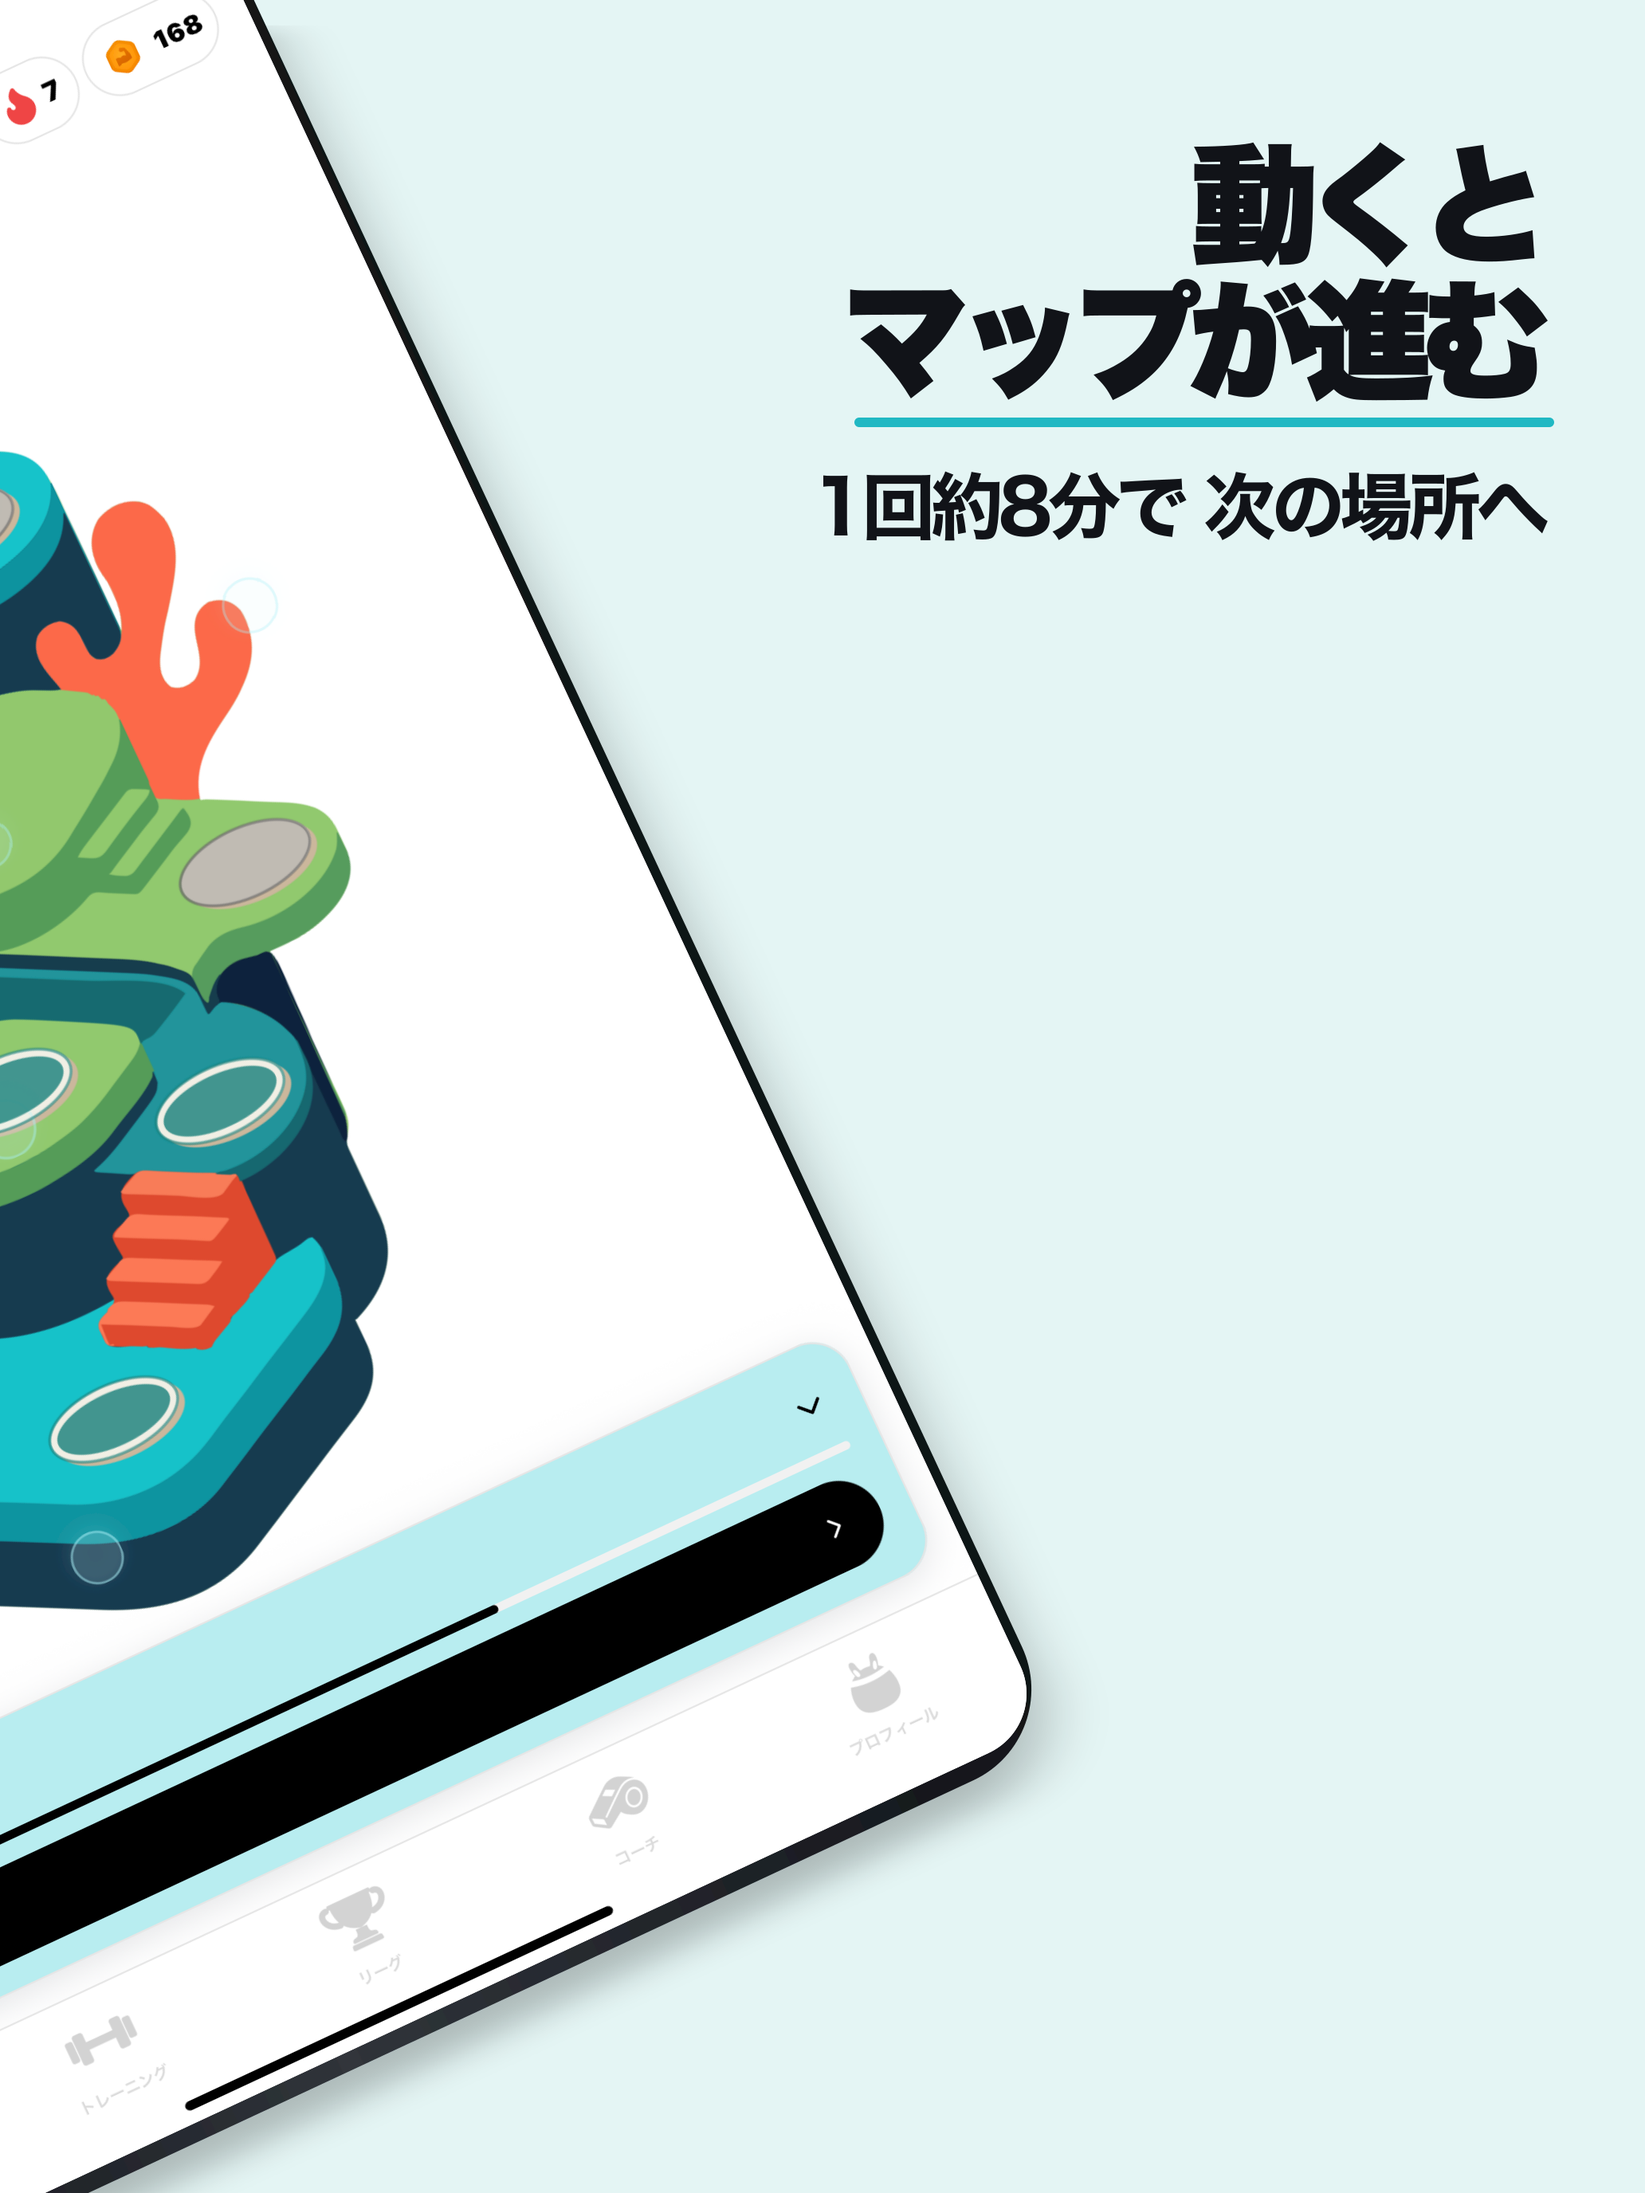
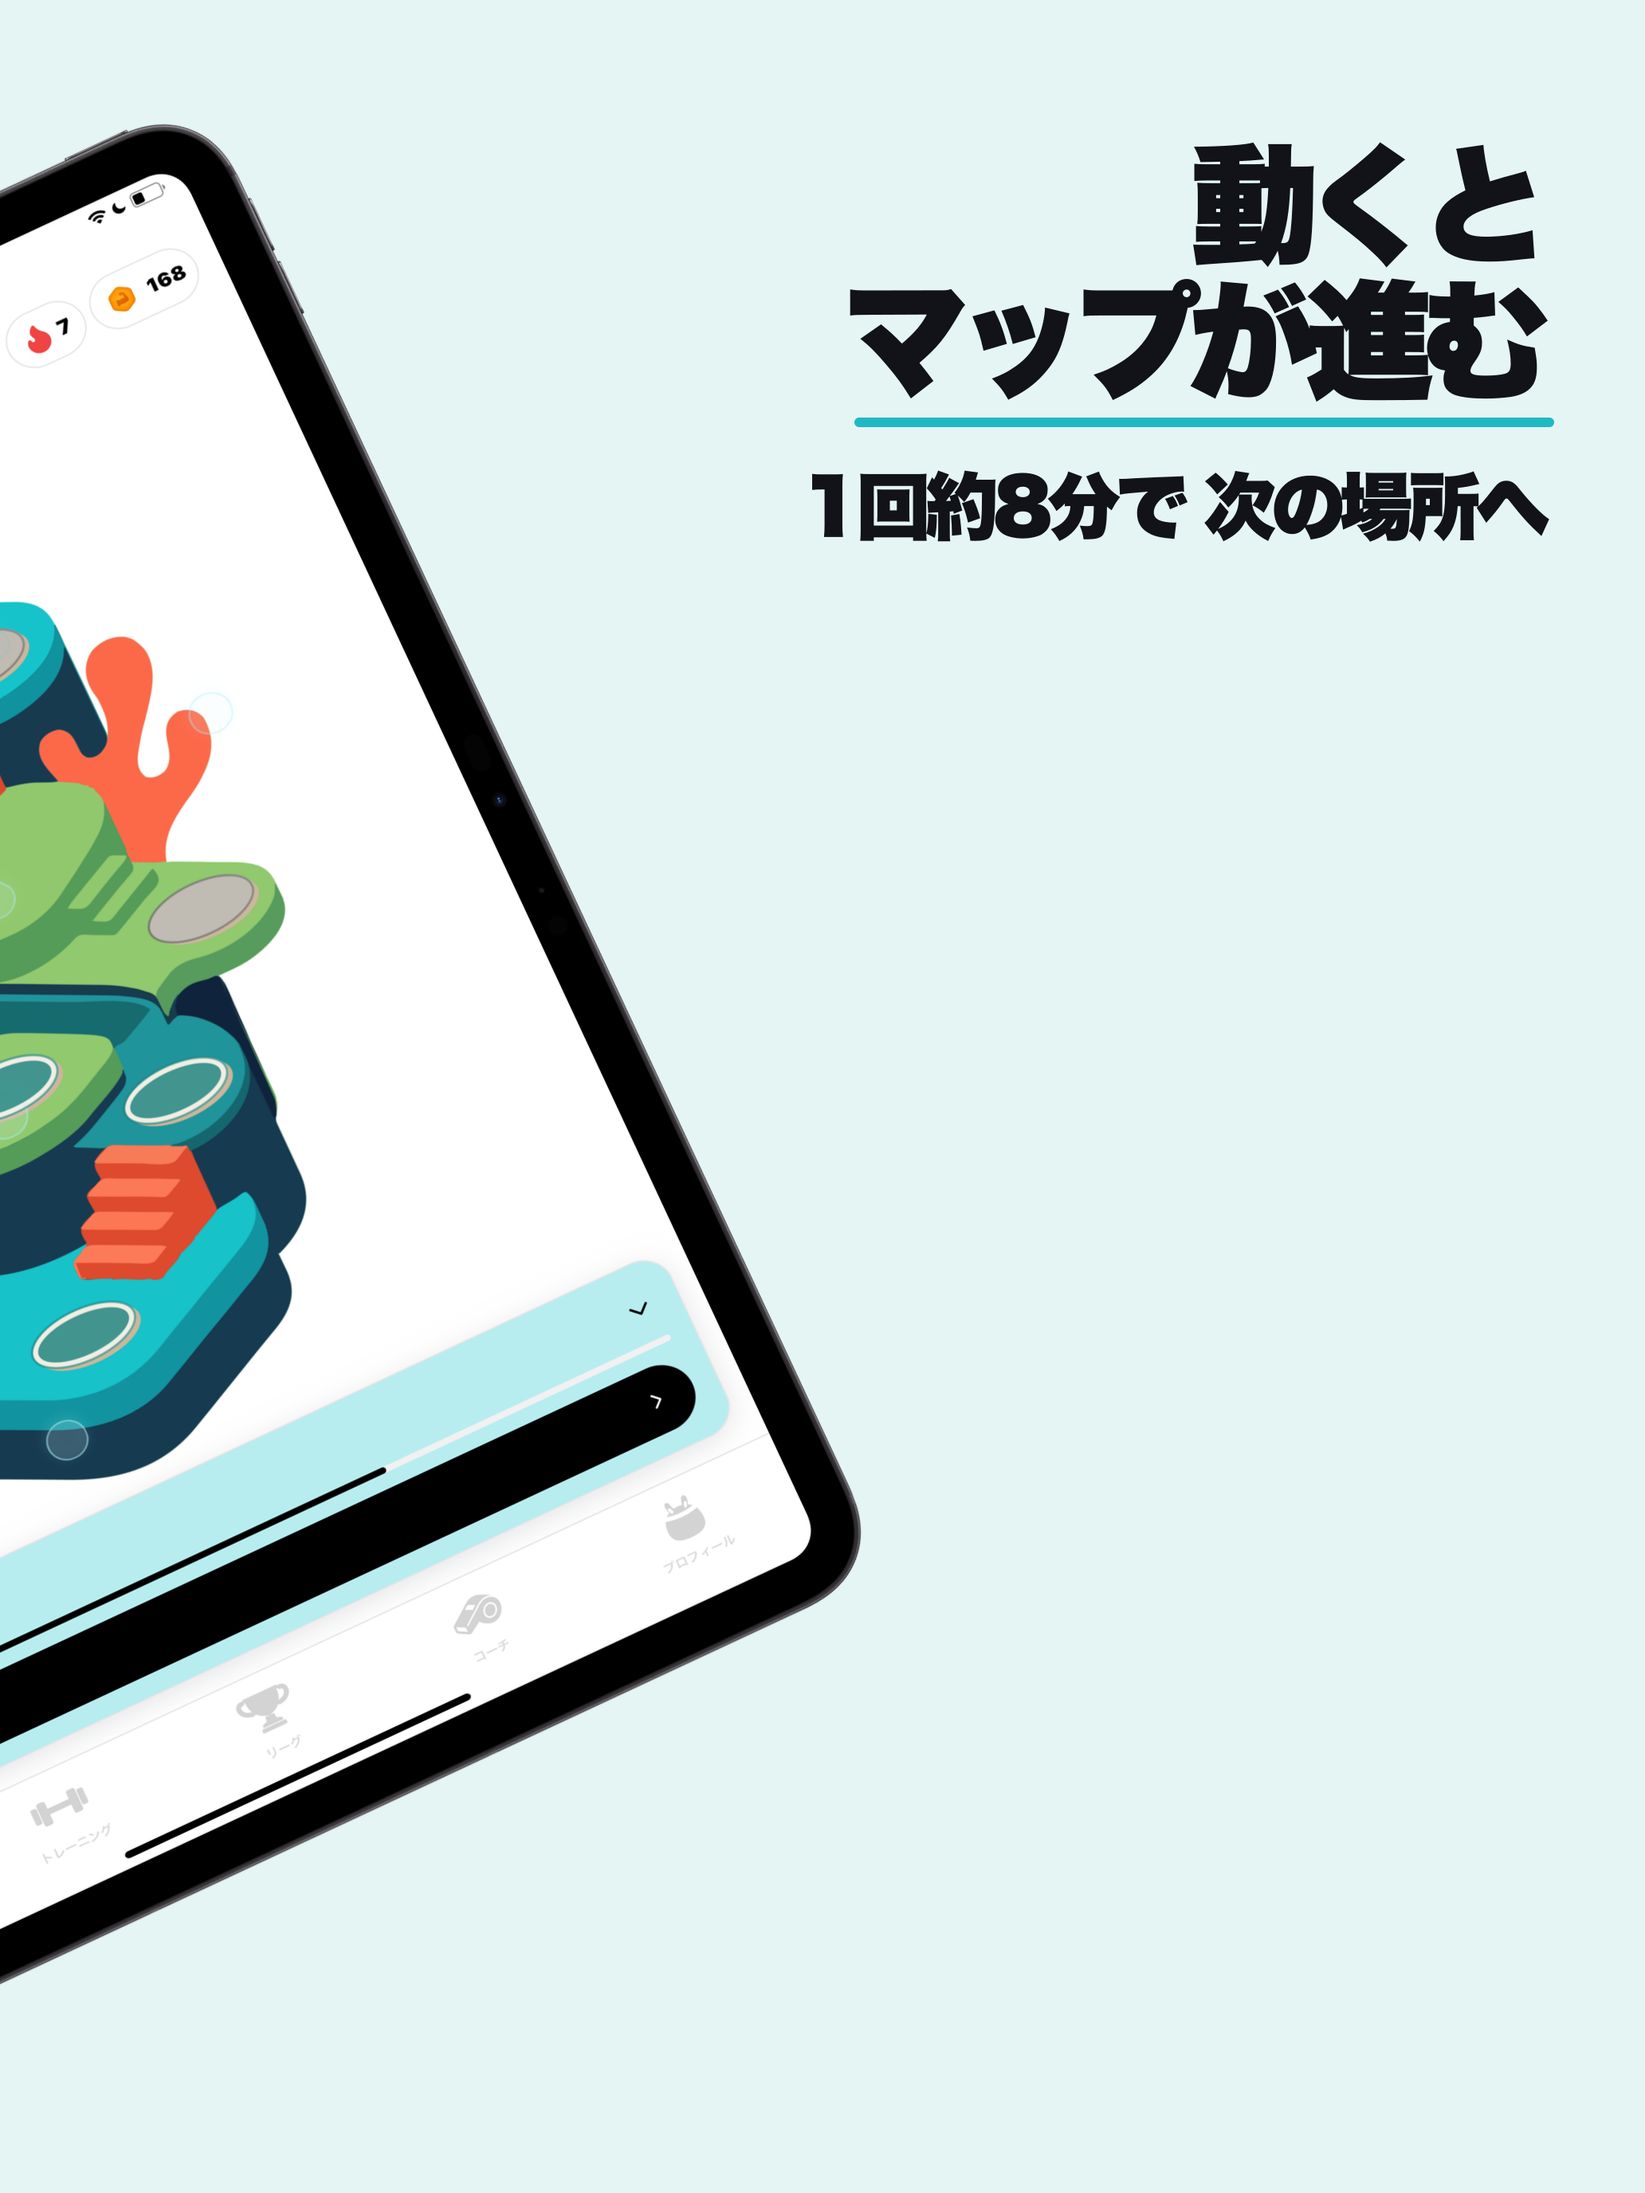
Use Apple's official iPad store screenshot bezel

Changed region(s): [[0.0, 0.0, 0.6512, 1.0], [0.4961, 0.2188, 0.9302, 0.25], [0.062, 0.125, 0.093, 0.1562]]

diff --git a/app/globals.css b/app/globals.css
@@ -1154,58 +1154,17 @@ html[lang="en"] .fitlet-new-friend-hero h1 { letter-spacing: -.045em; }
 .store-shot-coach .store-shot-copy p { color: rgba(17,19,24,.76); }
 .store-shot-coach .store-shot-phone { box-shadow: 0 35px 60px rgba(17,19,24,.2), 0 2px 0 rgba(255,255,255,.1) inset; }
 
-/* iPad 13-inch artwork uses the same type, framing, and generous device scale. */
-.store-shot-ipad {
+.store-shot-ipad-final {
   width: 2064px;
   height: 2752px;
+  background: #e4f5f4;
 }
-.store-shot-ipad .store-shot-brand {
-  top: 100px;
-  left: 140px;
-  width: 430px;
+.store-shot-ipad-final img {
+  display: block;
+  width: 100%;
+  height: 100%;
+  object-fit: contain;
 }
-.store-shot-ipad .store-shot-pro-logo {
-  top: 108px;
-  right: 140px;
-  width: 430px;
-}
-.store-shot-ipad .store-shot-copy {
-  top: 270px;
-  right: 140px;
-  left: 140px;
-}
-.store-shot-ipad .store-shot-copy h1 {
-  max-width: 1800px;
-  font-size: 170px;
-}
-.store-shot-ipad .store-shot-copy p {
-  margin-top: 40px;
-  font-size: 88px;
-}
-.store-shot-ipad .store-shot-phone {
-  top: 780px;
-  left: 332px;
-  width: 1400px;
-  border-width: 10px;
-  border-radius: 118px 118px 0 0;
-  padding: 10px;
-}
-.store-shot-ipad .store-shot-screen {
-  aspect-ratio: 1640 / 2360;
-  border-radius: 98px 98px 0 0;
-}
-.store-shot-ipad .store-shot-notch {
-  top: 18px;
-  width: 22px;
-  height: 22px;
-}
-.store-shot-ipad .store-shot-side-button {
-  width: 8px;
-  border-radius: 6px 0 0 6px;
-}
-.store-shot-ipad .store-shot-side-button-left-one { left: -20px; }
-.store-shot-ipad .store-shot-side-button-left-two { left: -20px; }
-.store-shot-ipad .store-shot-side-button-right { right: -20px; border-radius: 0 6px 6px 0; }
 
 .store-shot-gallery {
   min-height: 100vh;

diff --git a/app/store-screenshot/page.tsx b/app/store-screenshot/page.tsx
@@ -3,7 +3,7 @@
 import { useEffect, useState } from "react";
 import { publicAsset } from "../lib/publicAsset";
 
-const storeImageVersion = "2026-09-10-1";
+const storeImageVersion = "2026-09-23-1";
 
 const scenes = {
   home: {
@@ -114,6 +114,13 @@ function isSceneKey(value: string | null): value is SceneKey {
 
 function StoreShotCanvas({ sceneKey, locale, device }: { sceneKey: SceneKey; locale: LocaleKey; device: DeviceKey }) {
   const scene = locale === "en" ? englishScenes[sceneKey] : scenes[sceneKey];
+  if (device === "ipad") {
+    return (
+      <main className="store-shot store-shot-ipad-final" data-scene={sceneKey}>
+        <img src={publicAsset(`/store/ipad/${locale}/fitlet-${sceneKey}-${locale}.png?v=${storeImageVersion}`)} alt="" />
+      </main>
+    );
+  }
   const imageSource = device === "ipad" ? ipadScreenSources[locale][sceneKey] : scene.src;
 
   return (

diff --git a/app/f/[code]/page.tsx b/app/f/[code]/page.tsx
@@ -1,0 +1,5 @@
+export { default } from "../../friend/page";
+
+export function generateStaticParams() {
+  return [];
+}

diff --git a/public/store-assets/README.md b/public/store-assets/README.md
@@ -1,6 +1,6 @@
 # Fitlet ストア素材
 
-既存の Fitlet 素材だけを使い、明るい配色・太い輪郭・フラットな面でまとめた日本語・英語のストア素材です。フィーチャーグラフィックはロゴと既存キャラクターだけでシンプルに、最初の2枚は1枚のホームマップ画面を大きく斜めに横たわせて左右2枚にまたがせています。ストア表示時の隙間を見越して、編集元の連結キャンバスには中央32pxの想定ガターを設け、右側の書き出し範囲をずらしています。編集元は `source/` にあります。PNG は `node scripts/export-store-assets.mjs` で再出力できます。
+既存の Fitlet 素材だけを使い、明るい配色・太い輪郭・フラットな面でまとめた日本語・英語のストア素材です。フィーチャーグラフィックはロゴと既存キャラクターだけでシンプルに、最初の2枚は1枚のホームマップ画面を大きく斜めに横たわせて左右2枚にまたがせています。iPad用の端末フレームにはApple公式のiPad Pro (M5) 13インチベゼルを使用しています。編集元は `source/` にあります。iPhone用PNGは `node scripts/export-store-assets.mjs`、iPad用PNGはApple公式ベゼルPNGを指定して `node scripts/export-ipad-store-assets.mjs` で再出力できます。
 
 Appleの提出用スクリーンショットは、iPhone用を `1284 × 2778 px`、iPad 13インチ用を `2064 × 2752 px` に統一しています。`apple/screenshots/` 内には入稿用画像だけを置き、2枚連結の確認用画像は `previews/apple/` に分けています。
 
@@ -26,7 +26,7 @@ Appleの提出用スクリーンショットは、iPhone用を `1284 × 2778 px`
 - `apple/screenshots/ipad/ja/` — 日本語のiPad用提出画像。マップを跨ぐ1・2枚目と、Session / Training / League / Profile / Coach を含む7枚。全て `2064 × 2752 px`。
 - `apple/screenshots/ipad/en/` — 英語のiPad用提出画像。全て `2064 × 2752 px`。
 - `previews/apple/ipad/fitlet-map-spread-ja.png` / `fitlet-map-spread-en.png` — 1・2枚目の連結確認用プレビュー。入稿には使いません。
-- 元画像は `source/screens/ipad/ja/` / `source/screens/ipad/en/`、マップの連結元は `source/ipad-map-spread-ja.svg` / `source/ipad-map-spread-en.svg` です。
+- 元画像は `source/screens/ipad/ja/` / `source/screens/ipad/en/` です。iPad用の合成処理は `scripts/export-ipad-store-assets.mjs` にあり、Apple公式ベゼルの元ファイルはAppleのライセンス条件に従ってリポジトリへ同梱していません。
 
 ### Google Play
 
@@ -49,6 +49,8 @@ Appleの提出用スクリーンショットは、iPhone用を `1284 × 2778 px`
   <https://developer.apple.com/design/human-interface-guidelines/app-icons>
 - Apple の iPad 13インチ用スクリーンショットは、縦向き `2064 × 2752 px` または `2048 × 2732 px`（横向きも受付）です。
   <https://developer.apple.com/help/app-store-connect/reference/app-information/screenshot-specifications>
+- Apple公式の製品ベゼル素材（iPad Pro (M5)）
+  <https://developer.apple.com/design/resources/>
 - Apple の iPhone 6.9 インチ縦スクリーンショットは端末によって 1260 × 2736 / 1290 × 2796 / 1320 × 2868 px が受け付けられます。スクリーンショットは透過不可です。
   <https://developer.apple.com/help/app-store-connect/reference/app-information/screenshot-specifications/>
 - Google Play の掲載アイコンは 512 × 512、32-bit PNG、sRGB、1 MB 以下。完全な正方形で、角丸と外側の影は Play 側が処理します。
